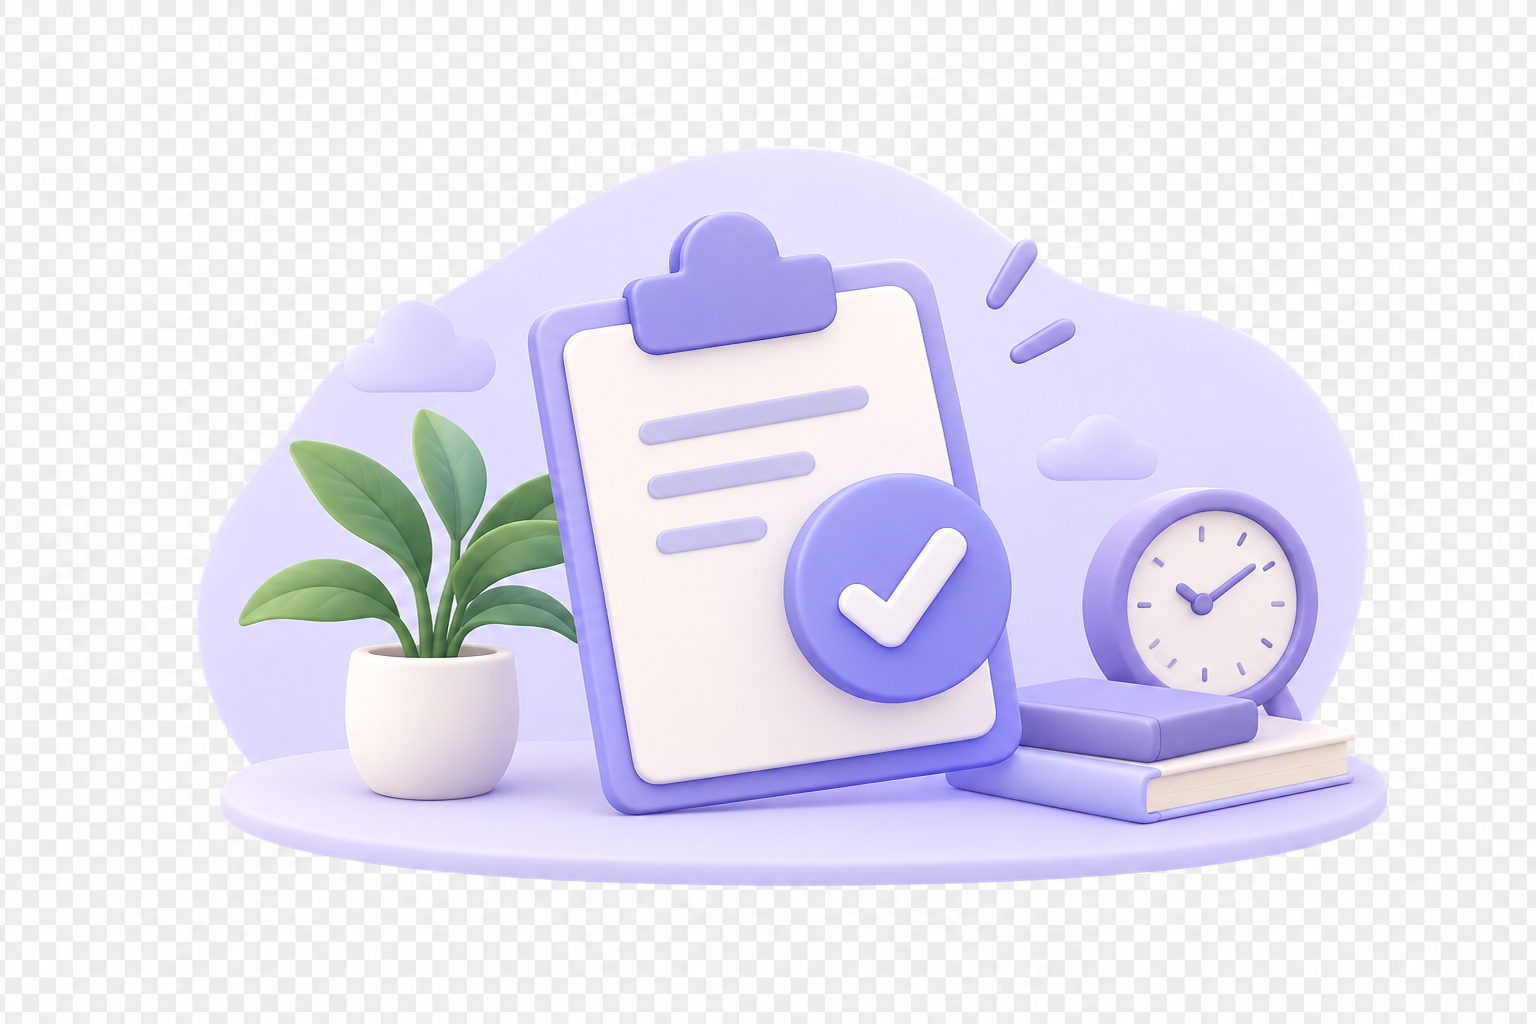
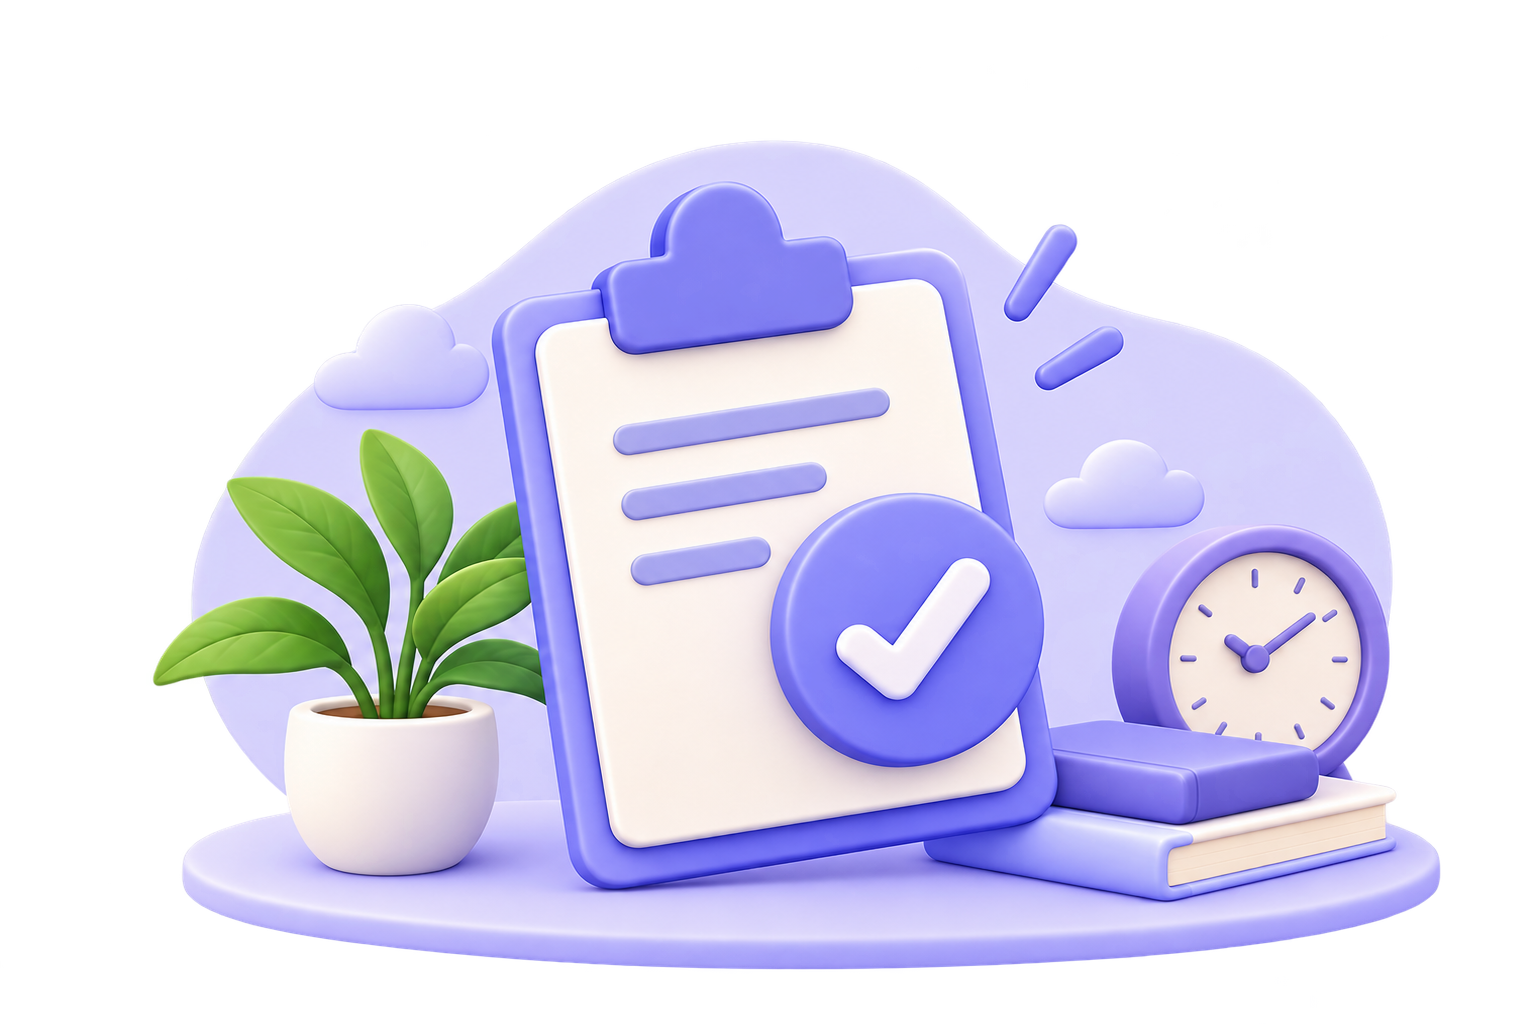
bugs

diff --git a/lib/main.dart b/lib/main.dart
@@ -48,6 +48,35 @@ void main() async {
 final _rootNavigatorKey = GlobalKey<NavigatorState>();
 final _shellNavigatorKey = GlobalKey<NavigatorState>();
 
+CustomTransitionPage<T> _buildPageWithTransition<T>({
+  required BuildContext context,
+  required GoRouterState state,
+  required Widget child,
+}) {
+  return CustomTransitionPage<T>(
+    key: state.pageKey,
+    child: child,
+    transitionDuration: const Duration(milliseconds: 260),
+    reverseTransitionDuration: const Duration(milliseconds: 220),
+    transitionsBuilder: (context, animation, secondaryAnimation, child) {
+      const begin = Offset(0.04, 0.0);
+      const end = Offset.zero;
+      const curve = Curves.easeOutCubic;
+
+      var slideTween = Tween(begin: begin, end: end).chain(CurveTween(curve: curve));
+      var fadeTween = Tween<double>(begin: 0.0, end: 1.0).chain(CurveTween(curve: curve));
+
+      return SlideTransition(
+        position: animation.drive(slideTween),
+        child: FadeTransition(
+          opacity: animation.drive(fadeTween),
+          child: child,
+        ),
+      );
+    },
+  );
+}
+
 final router = GoRouter(
   navigatorKey: _rootNavigatorKey,
   initialLocation: ApiService.isLoggedIn ? (ApiService.role == 'TENANT' ? '/tenant_home' : '/') : '/login',
@@ -55,53 +84,83 @@ final router = GoRouter(
     GoRoute(
       parentNavigatorKey: _rootNavigatorKey,
       path: '/login',
-      builder: (context, state) => const LoginScreen(),
+      pageBuilder: (context, state) => _buildPageWithTransition(
+        context: context,
+        state: state,
+        child: const LoginScreen(),
+      ),
     ),
     GoRoute(
       parentNavigatorKey: _rootNavigatorKey,
       path: '/forgot_password',
-      builder: (context, state) => const ForgotPasswordScreen(),
+      pageBuilder: (context, state) => _buildPageWithTransition(
+        context: context,
+        state: state,
+        child: const ForgotPasswordScreen(),
+      ),
     ),
     GoRoute(
       parentNavigatorKey: _rootNavigatorKey,
       path: '/tenant_home',
-      builder: (context, state) => const TenantHomeScreen(),
+      pageBuilder: (context, state) => _buildPageWithTransition(
+        context: context,
+        state: state,
+        child: const TenantHomeScreen(),
+      ),
     ),
     GoRoute(
       parentNavigatorKey: _rootNavigatorKey,
       path: '/tenant_my_profile',
-      builder: (context, state) => const TenantHomeScreen(initialTab: 2),
+      pageBuilder: (context, state) => _buildPageWithTransition(
+        context: context,
+        state: state,
+        child: const TenantHomeScreen(initialTab: 2),
+      ),
     ),
     GoRoute(
       parentNavigatorKey: _rootNavigatorKey,
       path: '/add_room',
-      builder: (context, state) => const AddRoomScreen(),
+      pageBuilder: (context, state) => _buildPageWithTransition(
+        context: context,
+        state: state,
+        child: const AddRoomScreen(),
+      ),
     ),
     GoRoute(
       parentNavigatorKey: _rootNavigatorKey,
       path: '/room_details/:roomId',
-      builder: (context, state) => RoomDetailsScreen(roomId: state.pathParameters['roomId']!),
+      pageBuilder: (context, state) => _buildPageWithTransition(
+        context: context,
+        state: state,
+        child: RoomDetailsScreen(roomId: state.pathParameters['roomId']!),
+      ),
     ),
     GoRoute(
       parentNavigatorKey: _rootNavigatorKey,
       path: '/add_room_bill/:roomId',
-      builder: (context, state) => AddRoomBillScreen(roomId: state.pathParameters['roomId']!),
+      pageBuilder: (context, state) => _buildPageWithTransition(
+        context: context,
+        state: state,
+        child: AddRoomBillScreen(roomId: state.pathParameters['roomId']!),
+      ),
     ),
     GoRoute(
       parentNavigatorKey: _rootNavigatorKey,
       path: '/tenant_profile/:id',
-      builder: (context, state) {
-        final id = state.pathParameters['id']!;
-        return TenantProfileScreen(tenantId: id);
-      },
+      pageBuilder: (context, state) => _buildPageWithTransition(
+        context: context,
+        state: state,
+        child: TenantProfileScreen(tenantId: state.pathParameters['id']!),
+      ),
     ),
     GoRoute(
       parentNavigatorKey: _rootNavigatorKey,
       path: '/record_payment/:id',
-      builder: (context, state) {
-        final id = state.pathParameters['id']!;
-        return RecordPaymentScreen(tenantId: id);
-      },
+      pageBuilder: (context, state) => _buildPageWithTransition(
+        context: context,
+        state: state,
+        child: RecordPaymentScreen(tenantId: state.pathParameters['id']!),
+      ),
     ),
     GoRoute(
       parentNavigatorKey: _rootNavigatorKey,

diff --git a/lib/screens/tenant_home_screen.dart b/lib/screens/tenant_home_screen.dart
@@ -311,9 +311,24 @@ class _TenantHomeScreenState extends State<TenantHomeScreen> {
               child: RefreshIndicator(
                 onRefresh: _loadAllData,
                 color: TenantTheme.primary,
-                child: _isFetching
-                    ? _buildSkeletonForTab()
-                    : _buildCurrentPage(),
+                child: AnimatedSwitcher(
+                  duration: const Duration(milliseconds: 240),
+                  switchInCurve: Curves.easeOutCubic,
+                  switchOutCurve: Curves.easeInCubic,
+                  transitionBuilder: (Widget child, Animation<double> animation) {
+                    return FadeTransition(
+                      opacity: animation,
+                      child: ScaleTransition(
+                        scale: Tween<double>(begin: 0.98, end: 1.0).animate(animation),
+                        child: child,
+                      ),
+                    );
+                  },
+                  child: KeyedSubtree(
+                    key: ValueKey<int>(_currentNavIndex),
+                    child: _isFetching ? _buildSkeletonForTab() : _buildCurrentPage(),
+                  ),
+                ),
               ),
             ),
           ),

diff --git a/lib/screens/rent_screen.dart b/lib/screens/rent_screen.dart
@@ -113,9 +113,20 @@ class _RentScreenState extends State<RentScreen> {
               ),
               const SizedBox(height: 16),
 
-              // 2. Three Metric Cards (Expected, Collected, Pending)
-              Row(
-                children: [
+              AnimatedSwitcher(
+                duration: const Duration(milliseconds: 240),
+                switchInCurve: Curves.easeOutCubic,
+                switchOutCurve: Curves.easeInCubic,
+                transitionBuilder: (Widget child, Animation<double> animation) {
+                  return FadeTransition(opacity: animation, child: child);
+                },
+                child: KeyedSubtree(
+                  key: ValueKey<bool>(_showBills),
+                  child: Column(
+                    children: [
+                      // 2. Three Metric Cards (Expected, Collected, Pending)
+                      Row(
+                        children: [
                   _buildMetricCard(
                     title: 'Expected',
                     amount: expectedAmount,
@@ -419,7 +430,11 @@ class _RentScreenState extends State<RentScreen> {
         ),
       ),
     ),
-  );
+  ],
+),
+),
+),
+);
 }
 
   Widget _buildSegmentButton({
